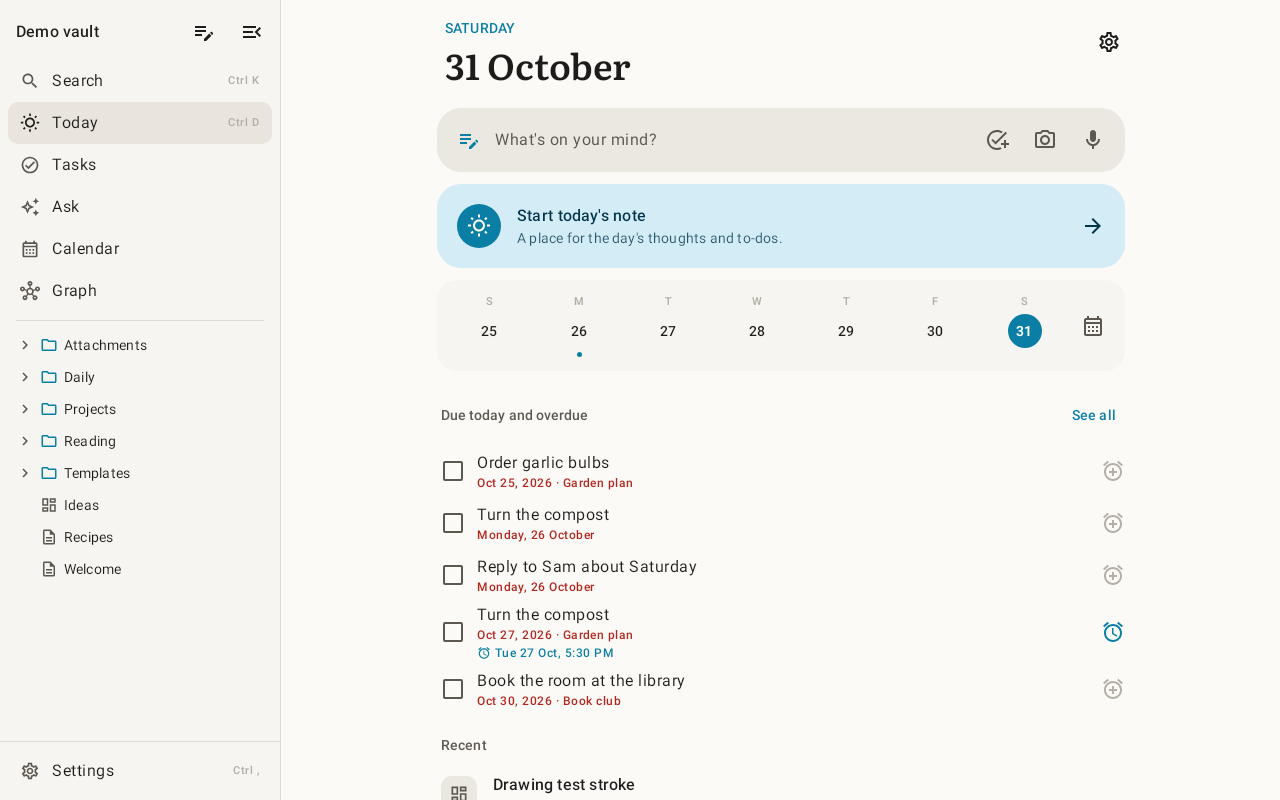
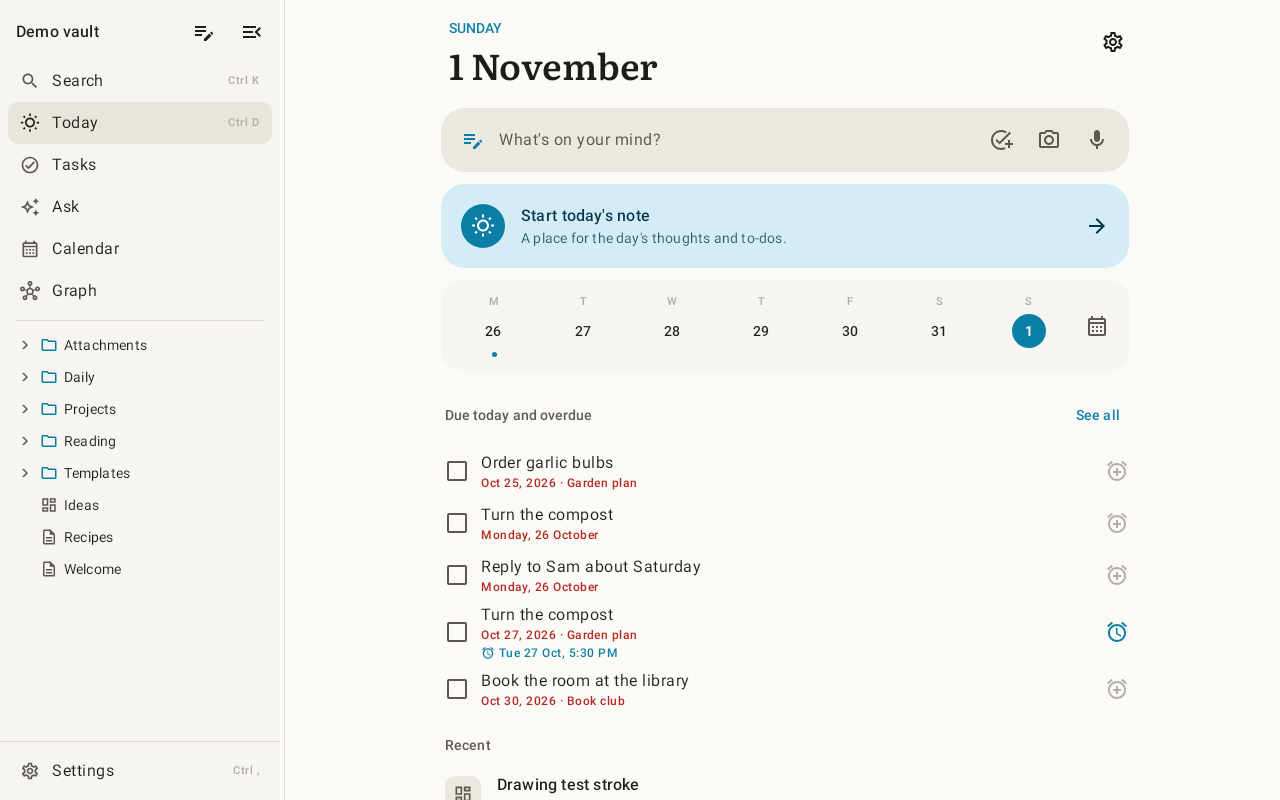
Tablets: resizable sidebar on Android desktop layout; iPad sidebar layout
- Android: drag the line beside the sidebar (double-tap resets); width and
  shown/hidden are remembered.
- iPad (regular width): a sidebar with the main places instead of tabs; hide
  it (Cmd+\\), drag its edge to resize; remembered.

diff --git a/apps/ios/Marrow/MarrowApp.swift b/apps/ios/Marrow/MarrowApp.swift
@@ -169,10 +169,54 @@ struct Root: View {
 struct MainTabs: View {
     @Environment(Store.self) private var store
     @Environment(Router.self) private var router
+    @Environment(\.horizontalSizeClass) private var sizeClass
+    @AppStorage("sidebarShown") private var sidebarShown = true
+    @AppStorage("sidebarWidth") private var sidebarWidth = 280.0
+
+    /// iPad windows that are wide enough get a sidebar instead of tabs; it
+    /// can be hidden (⌘\\) and dragged wider or narrower.
+    private var wide: Bool { sizeClass == .regular && UIDevice.current.userInterfaceIdiom == .pad }
 
     var body: some View {
         @Bindable var router = router
-        TabView(selection: $router.tab) {
+        Group {
+            if wide { sideLayout } else { tabs }
+        }
+        .sheet(isPresented: $router.capture) { CaptureSheet(initial: router.captureText) }
+    }
+
+    private var sideLayout: some View {
+        GeometryReader { geo in
+            // The sidebar never takes more than 40% of the window.
+            let cap = max(PadSidebar.minWidth, min(PadSidebar.maxWidth, Double(geo.size.width) * 0.4))
+            HStack(spacing: 0) {
+                if sidebarShown {
+                    PadSidebar(hide: { withAnimation(.snappy) { sidebarShown = false } })
+                        .frame(width: min(max(sidebarWidth, PadSidebar.minWidth), cap))
+                    SidebarEdge(width: $sidebarWidth, cap: cap)
+                } else {
+                    PadRail(show: { withAnimation(.snappy) { sidebarShown = true } })
+                    Rectangle().fill(Color.line).frame(width: 1)
+                }
+                current.frame(maxWidth: .infinity, maxHeight: .infinity)
+            }
+        }
+    }
+
+    @ViewBuilder
+    private var current: some View {
+        switch router.tab {
+        case .today: stack(.today) { TodayView() }
+        case .notes: stack(.notes) { BrowserView(folder: "") }
+        case .ask: stack(.ask) { AskView() }
+        case .tasks: stack(.tasks) { TasksView() }
+        case .search: stack(.search) { SearchView() }
+        }
+    }
+
+    private var tabs: some View {
+        @Bindable var router = router
+        return TabView(selection: $router.tab) {
             stack(.today) { TodayView() }
                 .tabItem { Label("Today", systemImage: "sun.max") }.tag(AppTab.today)
             stack(.notes) { BrowserView(folder: "") }
@@ -184,7 +228,6 @@ struct MainTabs: View {
             stack(.search) { SearchView() }
                 .tabItem { Label("Search", systemImage: "magnifyingglass") }.tag(AppTab.search)
         }
-        .sheet(isPresented: $router.capture) { CaptureSheet(initial: router.captureText) }
     }
 
     private func stack<V: View>(_ tab: AppTab, @ViewBuilder _ root: () -> V) -> some View {
@@ -214,6 +257,116 @@ struct MainTabs: View {
         case .importNotes: ImportView()
         case .conflicts: ConflictsView()
         }
+    }
+}
+
+// MARK: - iPad sidebar
+
+/// The iPad's sidebar: the main places and settings.
+struct PadSidebar: View {
+    static let minWidth = 220.0
+    static let maxWidth = 480.0
+    var hide: () -> Void
+    @Environment(Store.self) private var store
+    @Environment(Router.self) private var router
+
+    var body: some View {
+        VStack(alignment: .leading, spacing: 2) {
+            HStack {
+                Text(verbatim: store.vault?.name ?? "Marrow").font(.headline).lineLimit(1)
+                Spacer()
+                Button(action: hide) { Image(systemName: "sidebar.left").font(.body) }
+                    .keyboardShortcut("\\", modifiers: .command)
+                    .accessibilityLabel(Text("Hide the sidebar"))
+            }
+            .padding(.horizontal, 14).padding(.top, 14).padding(.bottom, 10)
+            ScrollView {
+                VStack(alignment: .leading, spacing: 2) {
+                    place(.today, "Today", "sun.max")
+                    place(.notes, "Notes", "folder")
+                    place(.tasks, "Tasks", "checklist")
+                    place(.ask, "Ask", "sparkles")
+                    place(.search, "Search", "magnifyingglass")
+                    Divider().padding(.vertical, 8).padding(.horizontal, 6)
+                    row("Calendar", "calendar", on: false) { router.push(.calendar) }
+                    row("Graph", "point.3.connected.trianglepath.dotted", on: false) { router.push(.graph()) }
+                }
+                .padding(.horizontal, 8)
+            }
+            Divider()
+            row("Settings", "gearshape", on: false) { router.push(.settings) }
+                .padding(8)
+        }
+        .background(Color.card)
+    }
+
+    /// A main place: opens it, or goes back to its start if it's already open.
+    private func place(_ tab: AppTab, _ title: LocalizedStringKey, _ symbol: String) -> some View {
+        row(title, symbol, on: router.tab == tab) {
+            if router.tab == tab { router.paths[tab] = [] } else { router.tab = tab }
+        }
+    }
+
+    private func row(_ title: LocalizedStringKey, _ symbol: String, on: Bool, action: @escaping () -> Void) -> some View {
+        Button(action: action) {
+            Label(title, systemImage: symbol)
+                .font(.body.weight(on ? .semibold : .regular))
+                .foregroundStyle(on ? Color.accent : Color.ink)
+                .frame(maxWidth: .infinity, alignment: .leading)
+                .padding(.horizontal, 10).frame(height: 40)
+                .background(on ? Color.accentSoft : Color.clear, in: RoundedRectangle(cornerRadius: 9, style: .continuous))
+                .contentShape(Rectangle())
+        }
+        .buttonStyle(.plain)
+    }
+}
+
+/// What's left when the iPad sidebar is hidden: a button to bring it back, and search.
+struct PadRail: View {
+    var show: () -> Void
+    @Environment(Router.self) private var router
+
+    var body: some View {
+        VStack(spacing: 6) {
+            Button(action: show) { Image(systemName: "sidebar.left").frame(width: 40, height: 40) }
+                .keyboardShortcut("\\", modifiers: .command)
+                .accessibilityLabel(Text("Show the sidebar"))
+            Button { router.tab = .search } label: { Image(systemName: "magnifyingglass").frame(width: 40, height: 40) }
+                .accessibilityLabel(Text("Search"))
+            Spacer()
+        }
+        .padding(.top, 10).padding(.horizontal, 4)
+        .frame(maxHeight: .infinity)
+        .background(Color.card)
+    }
+}
+
+/// The line beside the iPad sidebar: drag it (finger, Pencil or pointer) to
+/// make the sidebar wider or narrower; double-tap puts it back.
+struct SidebarEdge: View {
+    @Binding var width: Double
+    let cap: Double
+    @State private var start: Double?
+
+    var body: some View {
+        Rectangle().fill(Color.line).frame(width: 1)
+            .frame(width: 13)
+            .frame(maxHeight: .infinity)
+            .contentShape(Rectangle())
+            .gesture(
+                DragGesture(minimumDistance: 2, coordinateSpace: .global)
+                    .onChanged { v in
+                        let s = start ?? min(max(width, PadSidebar.minWidth), cap)
+                        start = s
+                        width = min(max(s + Double(v.translation.width), PadSidebar.minWidth), cap)
+                    }
+                    .onEnded { _ in start = nil }
+            )
+            .onTapGesture(count: 2) { width = 280 }
+            .hoverEffect(.highlight)
+            .accessibilityLabel(Text("Sidebar width"))
+            .padding(.horizontal, -6)
+            .zIndex(1)
     }
 }
 

diff --git a/apps/android/app/src/main/java/app/marrow/ui/App.kt b/apps/android/app/src/main/java/app/marrow/ui/App.kt
@@ -32,8 +32,11 @@ import androidx.compose.ui.unit.dp
 import app.marrow.data.words
 import app.marrow.ui.common.NameDialog
 import app.marrow.ui.desk.DESK_WIDTH
+import app.marrow.ui.desk.SIDE_MAX
+import app.marrow.ui.desk.SIDE_MIN
 import app.marrow.ui.desk.Place
 import app.marrow.ui.desk.Sidebar
+import app.marrow.ui.desk.SidebarEdge
 import app.marrow.ui.desk.todayPath
 import androidx.compose.foundation.layout.fillMaxSize
 import androidx.compose.material.icons.Icons
@@ -231,7 +234,9 @@ private fun Main(engine: Engine, incoming: Incoming?, onHandled: () -> Unit) {
     val onTab = TABS.any { t -> dest?.hasRoute(t.route::class) == true }
     var capture by remember { mutableStateOf<Incoming.Shared?>(null) }
     var captureOpen by remember { mutableStateOf(false) }
-    var sidebar by rememberSaveable { mutableStateOf(true) }
+    var sidebar by rememberSaveable { mutableStateOf(engine.prefs.sidebarShown) }
+    var sideWidth by rememberSaveable { mutableStateOf(engine.prefs.sidebarWidth) }
+    LaunchedEffect(sidebar) { engine.prefs.sidebarShown = sidebar }
     var naming by remember { mutableStateOf(false) }
     val scope = rememberCoroutineScope()
     val snackbar = LocalSnackbar.current
@@ -272,6 +277,8 @@ private fun Main(engine: Engine, incoming: Incoming?, onHandled: () -> Unit) {
             },
         ) {
             val desk = maxWidth >= DESK_WIDTH
+            // The sidebar never takes more than 40% of the window.
+            val sideCap = maxOf(SIDE_MIN, minOf(SIDE_MAX, (maxWidth.value * 0.4f).toInt()))
             appNav.desk = desk
             val place = when {
                 dest?.hasRoute(TodayRoute::class) == true -> Place.Today
@@ -317,9 +324,14 @@ private fun Main(engine: Engine, incoming: Incoming?, onHandled: () -> Unit) {
                             onPlace = { goPlace(nav, it) },
                             onNewNote = { naming = true },
                             onHide = { sidebar = false },
-                            modifier = Modifier.width(280.dp),
+                            modifier = Modifier.width(sideWidth.coerceIn(SIDE_MIN, sideCap).dp),
                         )
-                        VerticalDivider()
+                        // Drag the edge to make the sidebar wider or narrower; double-tap puts it back.
+                        SidebarEdge(
+                            onDrag = { dx -> sideWidth = (sideWidth.coerceIn(SIDE_MIN, sideCap) + dx).coerceIn(SIDE_MIN, sideCap) },
+                            onDone = { engine.prefs.sidebarWidth = sideWidth },
+                            onReset = { sideWidth = 280; engine.prefs.sidebarWidth = 280 },
+                        )
                     } else if (desk) {
                         Column(
                             Modifier.fillMaxHeight().background(MaterialTheme.colorScheme.surfaceContainerLow).windowInsetsPadding(WindowInsets.safeDrawing.only(WindowInsetsSides.Start + WindowInsetsSides.Vertical)).padding(4.dp),

diff --git a/apps/android/app/src/main/java/app/marrow/ui/desk/Desk.kt b/apps/android/app/src/main/java/app/marrow/ui/desk/Desk.kt
@@ -57,6 +57,15 @@ import androidx.compose.runtime.snapshots.SnapshotStateMap
 import androidx.compose.runtime.mutableStateMapOf
 import androidx.compose.ui.Alignment
 import androidx.compose.ui.Modifier
+import androidx.compose.ui.semantics.semantics
+import androidx.compose.ui.semantics.contentDescription
+import androidx.compose.ui.platform.LocalDensity
+import androidx.compose.ui.platform.LocalContext
+import androidx.compose.ui.input.pointer.pointerHoverIcon
+import androidx.compose.ui.input.pointer.PointerIcon
+import androidx.compose.material3.VerticalDivider
+import androidx.compose.foundation.gestures.detectTapGestures
+import androidx.compose.foundation.gestures.detectHorizontalDragGestures
 import androidx.compose.ui.graphics.Color
 import androidx.compose.ui.graphics.vector.ImageVector
 import androidx.compose.ui.input.pointer.PointerEventType
@@ -81,6 +90,45 @@ import kotlinx.coroutines.launch
 
 /** Windows at least this wide get the desktop layout: a sidebar beside the page. */
 val DESK_WIDTH = 840.dp
+
+/** How narrow and how wide the sidebar can be dragged, in dp. */
+const val SIDE_MIN = 200
+const val SIDE_MAX = 520
+
+/**
+ * The line between the sidebar and the page. Drag it (finger, stylus or
+ * mouse) to make the sidebar wider or narrower; double-tap to put it back.
+ */
+@Composable
+fun SidebarEdge(onDrag: (Int) -> Unit, onDone: () -> Unit, onReset: () -> Unit) {
+    val density = LocalDensity.current.density
+    var carry by remember { mutableStateOf(0f) }
+    val label = stringResource(R.string.sidebar_width)
+    val resize = PointerIcon(android.view.PointerIcon.getSystemIcon(LocalContext.current, android.view.PointerIcon.TYPE_HORIZONTAL_DOUBLE_ARROW))
+    Box(
+        Modifier.fillMaxHeight().width(9.dp)
+            .pointerHoverIcon(resize)
+            .pointerInput(Unit) {
+                detectHorizontalDragGestures(
+                    onDragEnd = { carry = 0f; onDone() },
+                    onDragCancel = { carry = 0f; onDone() },
+                ) { change, dx ->
+                    change.consume()
+                    carry += dx / density
+                    val whole = carry.toInt()
+                    if (whole != 0) {
+                        carry -= whole
+                        onDrag(whole)
+                    }
+                }
+            }
+            .pointerInput(Unit) { detectTapGestures(onDoubleTap = { onReset() }) }
+            .semantics { contentDescription = label },
+        contentAlignment = Alignment.Center,
+    ) {
+        VerticalDivider()
+    }
+}
 
 /** The sidebar's places, besides the notes themselves. */
 enum class Place { Today, Tasks, Ask, Search, Calendar, Graph, Settings }

diff --git a/apps/android/app/src/test/java/app/marrow/ScreenshotTest.kt b/apps/android/app/src/test/java/app/marrow/ScreenshotTest.kt
@@ -140,6 +140,19 @@ class ScreenshotTest {
         compose.onRoot().captureRoboImage(File(out, "21-desktop-note.png").path)
     }
 
+    /** Dragging the line beside the sidebar makes it wider, and the width is kept. */
+    @Config(qualifiers = "w1280dp-h800dp-mdpi")
+    @Test fun deskSidebarWidth() {
+        engine.prefs.sidebarWidth = 280
+        shot("27-desktop-wide-sidebar") { App(engine, null) {} }
+        val edge = compose.onNode(androidx.compose.ui.test.hasContentDescription("Sidebar width"))
+        edge.performTouchInput { swipe(center, center + Offset(120f, 0f), 300) }
+        repeat(6) { Thread.sleep(40); compose.mainClock.advanceTimeBy(120) }
+        compose.waitForIdle()
+        compose.onRoot().captureRoboImage(File(out, "27-desktop-wide-sidebar.png").path)
+        org.junit.Assert.assertTrue("width ${engine.prefs.sidebarWidth}", engine.prefs.sidebarWidth in 380..420)
+    }
+
     @Test fun remindSheet() = shot("22-remind") {
         app.marrow.ui.reminders.RemindSheet("2026-11-03 09:00", onDismiss = {}) {}
     }

diff --git a/apps/android/app/src/main/java/app/marrow/data/Prefs.kt b/apps/android/app/src/main/java/app/marrow/data/Prefs.kt
@@ -58,6 +58,14 @@ class Prefs(context: Context) {
         get() = p.getString("recentQuestions", "")!!.split('\n').filter { it.isNotBlank() }
         set(v) = p.edit().putString("recentQuestions", v.take(6).joinToString("\n")).apply()
 
+    /** The desktop layout's sidebar: shown or hidden, and its width in dp (drag its edge). */
+    var sidebarShown: Boolean
+        get() = p.getBoolean("sidebarShown", true)
+        set(v) = p.edit().putBoolean("sidebarShown", v).apply()
+    var sidebarWidth: Int
+        get() = p.getInt("sidebarWidth", 280)
+        set(v) = p.edit().putInt("sidebarWidth", v).apply()
+
     /** What to show once the vault opens ("sync" after "Sync from a server"). */
     var afterOpen: String?
         get() = p.getString("afterOpen", null)

diff --git a/apps/i18n/strings.py b/apps/i18n/strings.py
@@ -99,6 +99,7 @@ STRINGS = [
     ("reminder_removed", "Reminder removed", "রিমাইন্ডার মুছে ফেলা হয়েছে"),
     ("hide_sidebar", "Hide the sidebar", "সাইডবার লুকান"),
     ("show_sidebar", "Show the sidebar", "সাইডবার দেখান"),
+    ("sidebar_width", "Sidebar width", "সাইডবারের চওড়া"),
     ("edit", "Edit", "সম্পাদনা"),
     ("delete", "Delete", "মুছুন"),
     ("rename", "Rename", "নাম বদলান"),
